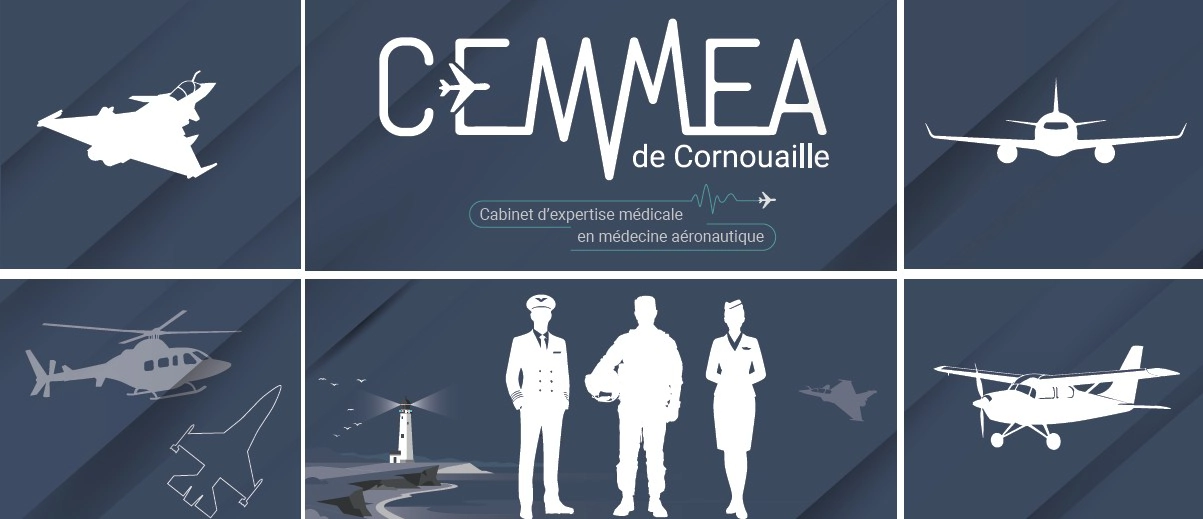
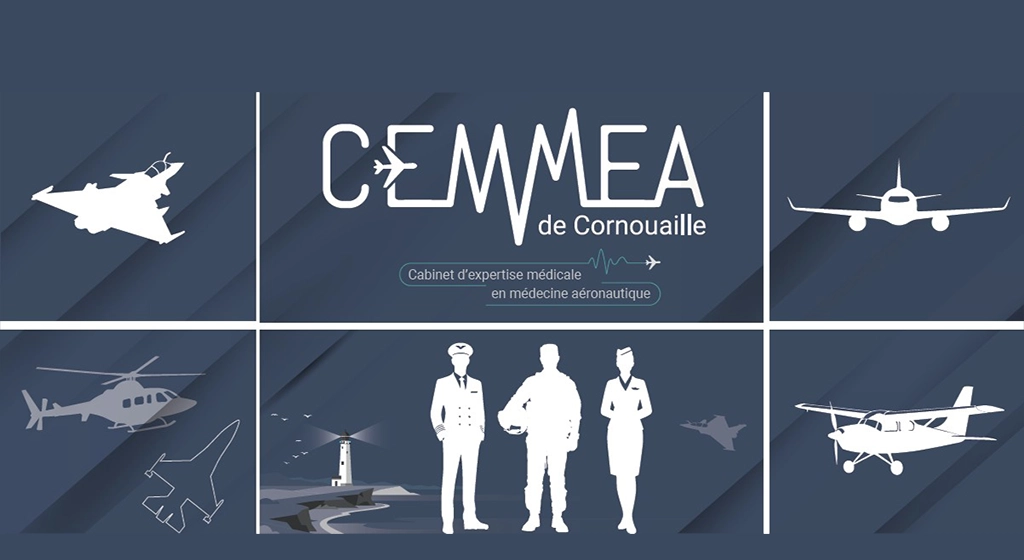
carousel

diff --git a/frontend/src/components/Carousel/Carousel.jsx b/frontend/src/components/Carousel/Carousel.jsx
@@ -1,27 +1,31 @@
 import { Swiper, SwiperSlide } from "swiper/react"
 import { Autoplay } from "swiper/modules"
 import "swiper/css"
+import "./Carousel.scss"
 
 import { Box } from "@mui/material"
 
 const slides = [
   {
     image: "/images/carousel/carousel_1.webp",
+    size: "contain",
   },
   {
     image: "/images/carousel/carousel_2.webp",
+    size:"cover",
   },
   {
     image: "/images/carousel/carousel_3.webp",
+    size:"cover",
   },
-  {
-    image: "/images/carousel/carousel_4.webp",
-  },
+
   {
     image: "/images/carousel/carousel_5.webp",
+    size:"cover",
   },
   {
     image: "/images/carousel/carousel_6.webp",
+    size:"cover",
   },
 ]
 
@@ -41,11 +45,11 @@ const Carousel = () => {
           <SwiperSlide key={index}>
             <Box
               sx={{
-                height: { xs: 220, md: 340 },
+                height: { xs: 280, md: 420 },
                 backgroundImage: `url(${slide.image})`,
-                backgroundSize: "cover",
+                backgroundSize: slide.size,
+                backgroundRepeat: "no-repeat",
                 backgroundPosition: "center",
-                //   position:"absolute",
                 display: "flex",
                 alignItems: "center",
                 justifyContent: "center",

diff --git a/frontend/src/styles/base/_common.scss b/frontend/src/styles/base/_common.scss
@@ -1,25 +1,6 @@
 @use "../../styles/utils/variables" as *;
 @use "../../styles/utils/mixins" as *;
 
-.container__pages {
-  min-height: 100vh;
-
-  background-size: contain;
-  background-position: top center;
-  background-repeat: no-repeat;
-  background-attachment: fixed;
-}
-
-.activities,
-.access,
-.openinghours,
-.contact,
-.prices,
-.blog {
-  background-color: $secondary-color-1;
-
-}
-
 .activities__body,
 .access__body,
 .openinghours__body,
@@ -28,7 +9,10 @@
 .blog__body {
   margin-top:2rem;
   padding: 1rem;
-  position: relative;
+
+  display: flex;
+  flex-direction: column;
+  
 
   @include responsive-tablet {
     margin-top:0;
@@ -40,16 +24,16 @@
   position: absolute;
   top: 9%;
   right: 5%;
-  width: 80px;
+    width: 12rem;
   z-index: 1;
 
   @include responsive-tablet {
     top: 10%;
-    width: 140px;
+
   }
 
   @include responsive-desktop {
     top: 12%;
-    width: 220px;
+
   }
 }

diff --git a/frontend/src/styles/base/_base.scss b/frontend/src/styles/base/_base.scss
@@ -1,4 +1,5 @@
-@use "../utils/mixins" as *;
+@use "../../styles/utils/variables" as *;
+@use "../../styles/utils/mixins" as *;
 
 *,
 *::before,
@@ -22,9 +23,11 @@ body {
   flex-direction: column;
   min-height: 100%;
   width: 100%;
+  background-color: $primary-color-2;
 }
 
 main {
   flex: 1;
   min-height: 0;
+
 }

diff --git a/frontend/src/components/Navbar/Navbar.scss b/frontend/src/components/Navbar/Navbar.scss
@@ -2,9 +2,13 @@
 @use "../../styles/utils/mixins" as *;
 
 nav {
-  background-color: $primary-color-4;
   position: absolute;
+  top: 0;
+  left:50%;
+  transform: translateX(-50%);
+  z-index: 99;
 }
+
 .navbar-desktop {
   display: none;
 

diff --git a/frontend/src/components/Carousel/Carousel.scss b/frontend/src/components/Carousel/Carousel.scss
@@ -1,4 +1,7 @@
+@use "../../styles/utils/variables" as *;
+@use "../../styles/utils/mixins" as *;
+
 .carousel {
-  position: absolute;
-  border: 2px solid red;
+
+  background-color: $primary-color-4;
 }

diff --git a/frontend/src/pages/Home/Home.scss b/frontend/src/pages/Home/Home.scss
@@ -2,9 +2,6 @@
 @use "../../styles/utils/mixins" as *;
 
 .home {
-  background-color: $secondary-color-1;
-
-
   @include responsive-desktop {
     padding: 0 10rem;
     background-size: cover;

diff --git a/frontend/src/pages/Prices/Prices.scss b/frontend/src/pages/Prices/Prices.scss
@@ -4,6 +4,7 @@
 .prices__table {
   display: flex;
   flex-direction: column;
+  align-items: center;
   gap: 1rem;
   margin-top: 5rem;
   

diff --git a/frontend/src/styles/base/_typography.scss b/frontend/src/styles/base/_typography.scss
@@ -38,6 +38,7 @@ h6 {
 h1 {
   font-size: 2.5rem;
   text-transform: uppercase;
+  text-align: center;
 }
 h2 {
   font-size: 1.2rem;

diff --git a/frontend/src/components/Header/Header.scss b/frontend/src/components/Header/Header.scss
@@ -3,6 +3,6 @@
 
 header {
   position: relative;
-  width: 100%;
+  // width: 100%;
   // overflow: hidden;
 }
